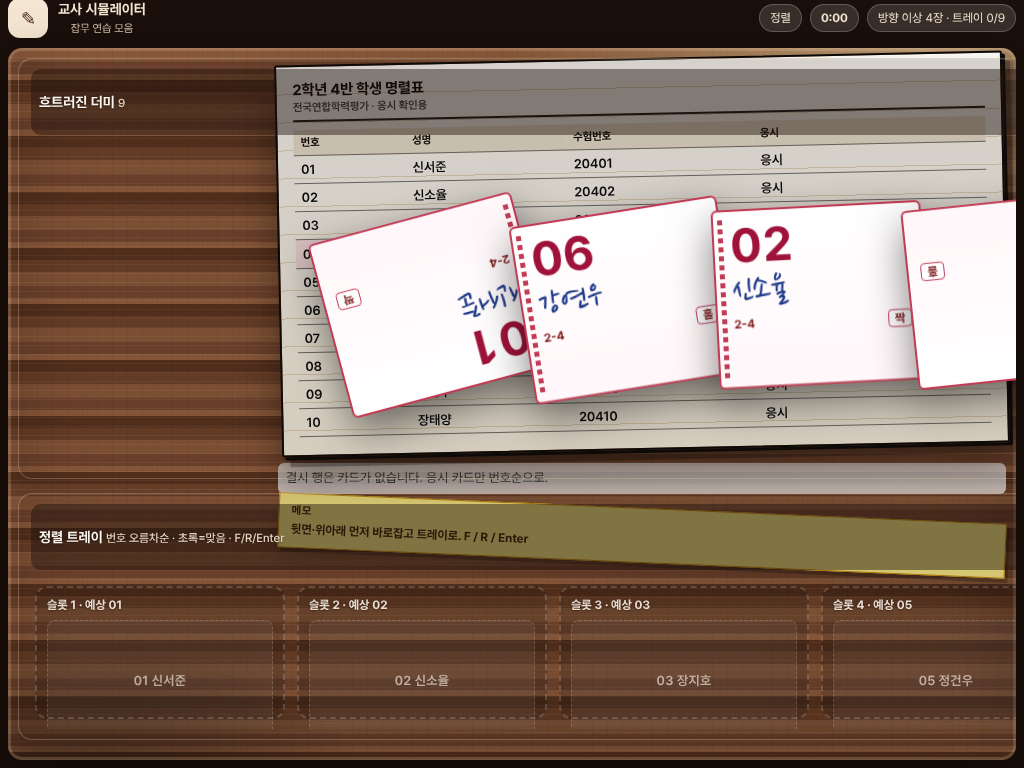
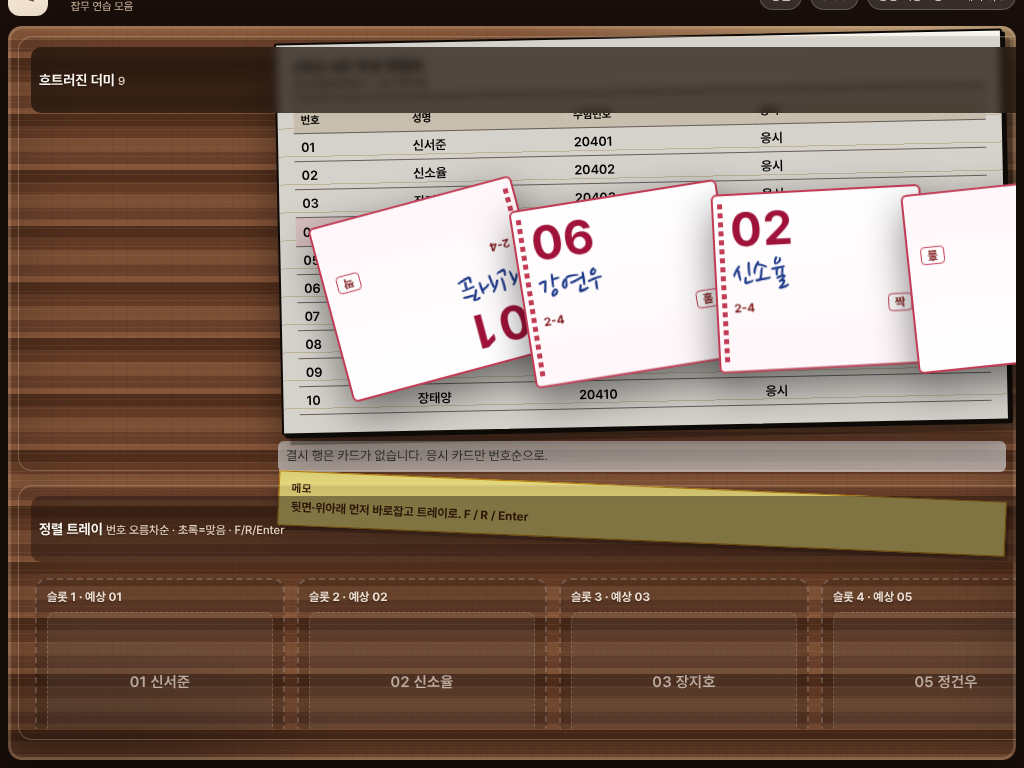
Round 0027: roster ink, sticky pile toolbar, magnifier e2e assert
- Black roster cell ink on cream paper
- Sticky pile zone-head keeps flip/tray actions visible
- E2E asserts magnifier contains cloned .omr-card

diff --git a/src/style.css b/src/style.css
@@ -980,3 +980,17 @@ kbd {
 }
 .sorting-desk { max-width: none; }
 .desk-table { max-width: none; }
+
+/* 0027 pile toolbar */
+.pile-zone .zone-head {
+  position: sticky; top: 0; z-index: 8;
+  background: rgba(28, 16, 10, 0.72);
+  backdrop-filter: blur(4px);
+}
+.roster-sheet td, .roster-sheet th { color: #000 !important; }
+.roster-sheet {
+  background: #fffef8 !important;
+  background-image: repeating-linear-gradient(180deg, transparent 0 27px, #e4d8c0 27px 28px) !important;
+}
+.tray-slot.empty-slot { min-height: 168px; }
+.tray-slot .slot-ghost { min-height: 140px; font-size: 15px; }

diff --git a/docs/issues/0027-roster-ink-mag-assert.md b/docs/issues/0027-roster-ink-mag-assert.md
@@ -1,0 +1,12 @@
+# 0027 Roster ink · sticky pile toolbar · magnifier e2e assert
+
+## Critique
+
+- Roster still described as faint in 05.
+- Magnifier content was fixed earlier but e2e only unhid lens — now assert `.omr-card` inside lens.
+
+## Fixes
+
+1. Force roster paper `#fffef8` + black cell ink.
+2. Sticky semi-opaque pile zone-head so flip/tray buttons stay readable over cards.
+3. E2E throws if magnifier lacks cloned OMR.

diff --git a/docs/ROUNDLOG.md b/docs/ROUNDLOG.md
@@ -11,3 +11,4 @@
 
 | ~00:42 | 0025 | Sticky, tray contrast, hub foot |
 | ~00:43 | 0026 | Inspect layout fill |
+| ~00:56 | 0027 | Roster ink, mag assert |
